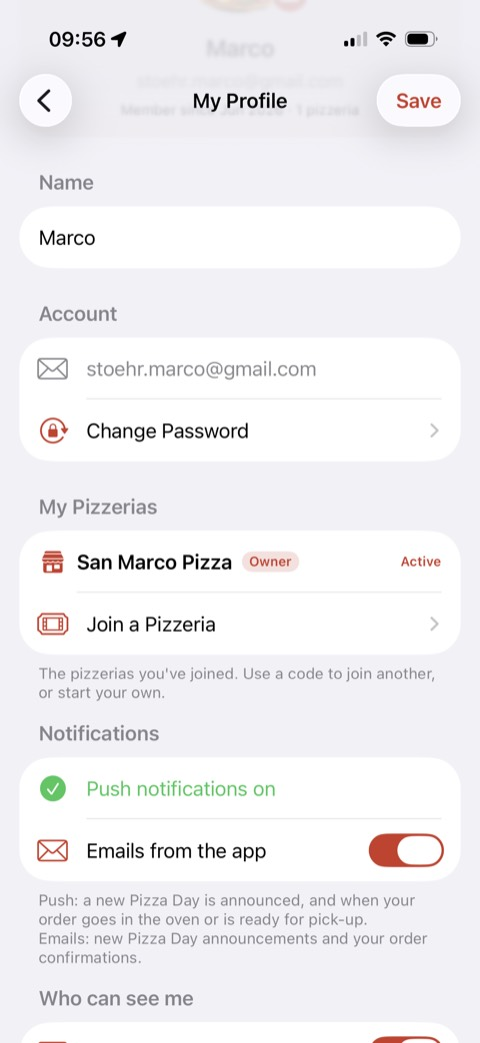
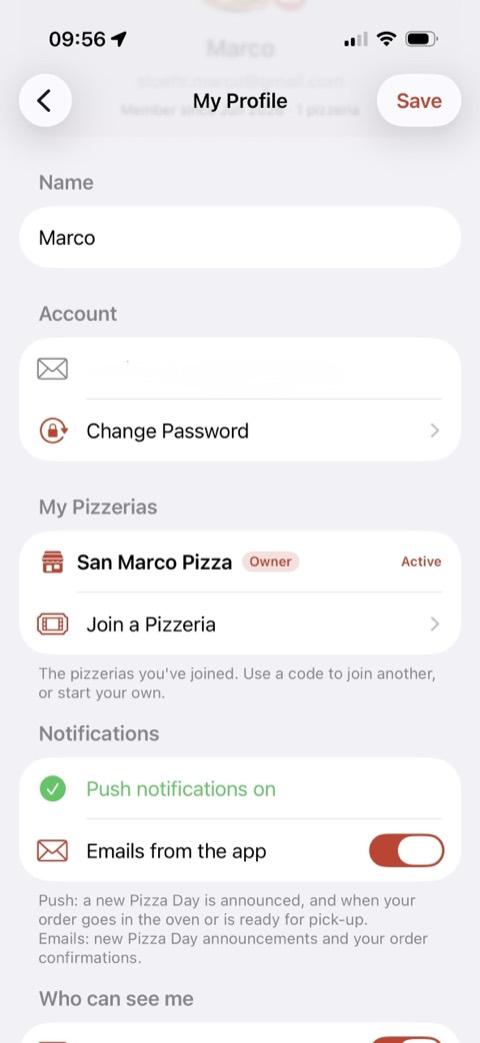
Website: swap in profile screenshot with the email row redacted
Replaces shots/profile.jpg with a fresh capture where the account
email is no longer legible. Same 480x1043 aspect, no HTML change.

Claude-Session: https://claude.ai/code/session_01NMfyMukgm6UkT718iAQJ5R

diff --git a/shots/README.md b/shots/README.md
@@ -9,7 +9,7 @@ Prices are avoided or cropped where possible.
 | `home.jpg` | Home — the Pizza Day hero + next-order card | current (Sep 2026) |
 | `menu.jpg` | Menu — pizzas with ingredients / allergens / cm sizes | current — **prices manually blurred** |
 | `myorders.jpg` | My Orders — Bakers Day group + the 4-dot progress rail | current |
-| `profile.jpg` | My Profile | current |
+| `profile.jpg` | My Profile — email row redacted | current |
 | `bakingschedule.jpg` | Owner: Baking Schedule (Queue view) — used only in `anleitung.html` | current |
 
 To refresh: replace a file with a fresh capture at roughly the same
